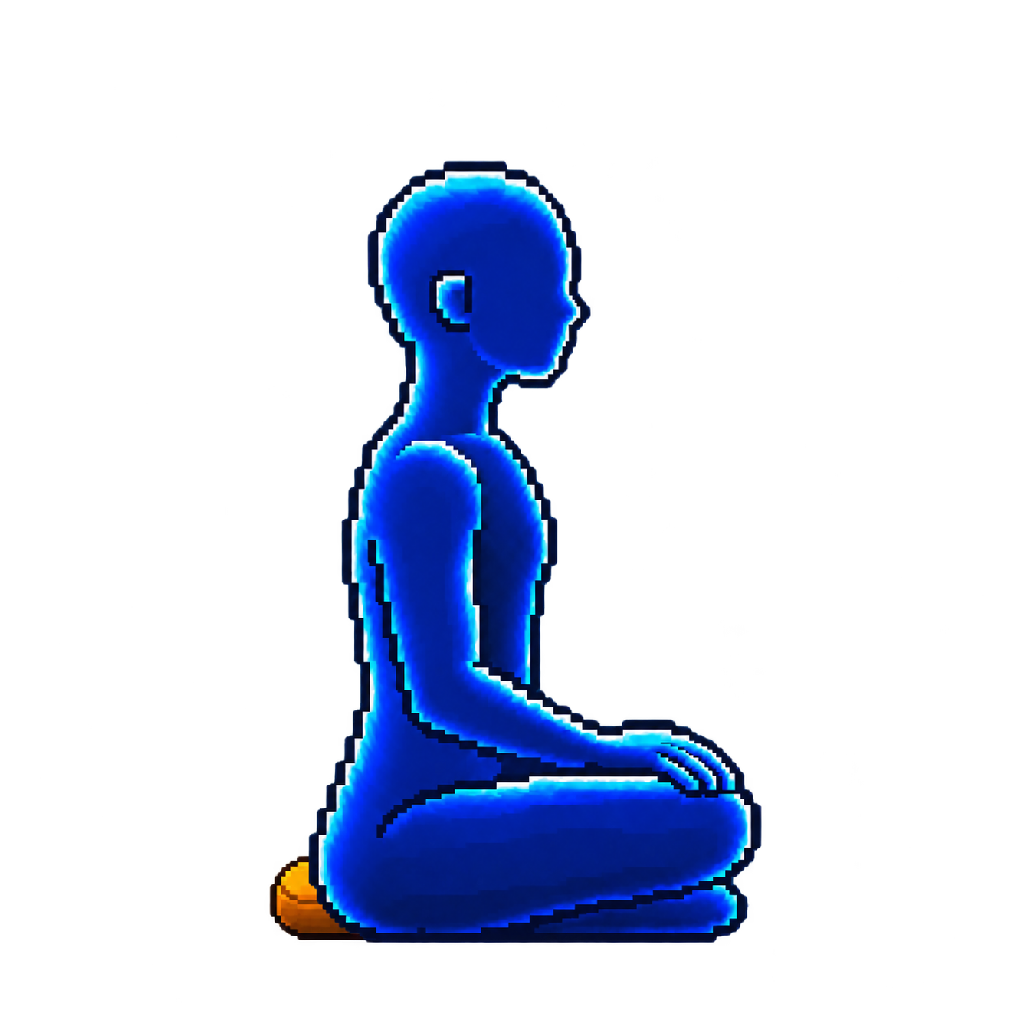
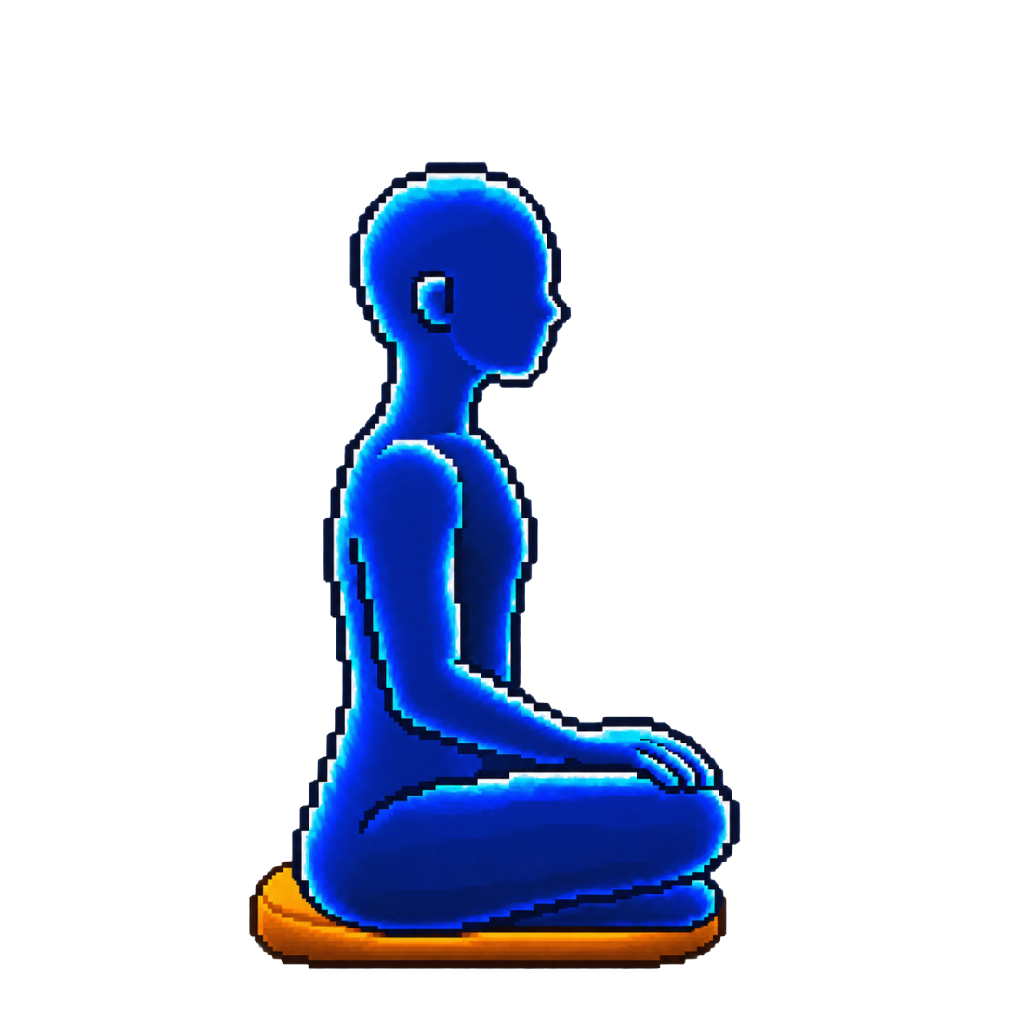
Register the new Lift the hips figure to the side pose so the cushion does not shift the body.

Changed region(s): [[0.2188, 0.1562, 0.75, 0.9688]]

diff --git a/public/index.html b/public/index.html
@@ -353,9 +353,9 @@ img[alt="luminous body"]{mix-blend-mode:normal!important;animation:none!importan
 /* One anatomical registration for every approved seated male asset: the
    palms-down crown, centre line and floor contact are the shared anchors. */
 html[data-wave-avatar="man"] .seat-side{transform:translate(-.05%,-.108%) scale(1.00256)}
-/* The cushion extends farther left than the figure itself. Align the visible
-   head/spine/torso landmarks, which are drawn 19px right of the side master. */
-html[data-wave-avatar="man"] [data-seat="1"]{transform:translateX(-1.935%);transform-origin:50% 50%}
+/* The cushion pose is registered to the side master, so it shares that
+   placement. The hips rise onto the cushion without shifting the figure. */
+html[data-wave-avatar="man"] [data-seat="1"]{transform:translate(-.05%,-.108%) scale(1.00256);transform-origin:50% 50%}
 /* The approved shoulder and spine stills share the same 1254px registration,
    so changing posture never moves the seated baseline. */
 html[data-wave-avatar="man"] .spine-upright-sequence{transform:none}
@@ -735,7 +735,7 @@ html[data-wave-avatar="man"] .head-position-sequence{transform:translate(-1.054%
       <!-- seated posture frames (crossfade) -->
       <div data-layer="seated" style="position:absolute; inset:0; opacity:0; transition:opacity 1s ease; mix-blend-mode:screen;">
         <div data-seat="0" class="seat-views" style="position:absolute;inset:0;opacity:0"><img class="seat-front" src="assets/female-cloud-0.svg" alt="Front view of seated posture"/><img class="seat-side" src="assets/female-pose-1.svg?v=2" alt="Side view of seated posture"/></div>
-        <img data-seat="1" src="assets/female-pose-0.svg?v=2" alt="use a cushion" style="position:absolute; inset:0; width:100%; height:100%; object-fit:contain; padding:4% 6% 6%; opacity:0; transition:opacity .9s ease; animation:seatedFloat 8s ease-in-out infinite;">
+        <img data-seat="1" src="assets/female-pose-0.svg?v=3" alt="use a cushion" style="position:absolute; inset:0; width:100%; height:100%; object-fit:contain; padding:4% 6% 6%; opacity:0; transition:opacity .9s ease; animation:seatedFloat 8s ease-in-out infinite;">
         <div data-seat="2" class="shoulder-release-sequence" role="img" aria-label="Shoulders gently dropping down and away from the ears, with arrows moving downward above each shoulder">
           <img data-shoulder-release-frame data-avatar-slot="female-shoulders-relaxed-0.png" src="assets/avatars/woman.png" alt="">
           <img class="seat-cue-arrow shoulder-cue-arrow shoulder-cue-arrow-left" src="assets/animations/seat-cue-arrows-v1/arrow-down.png" alt="" aria-hidden="true">

diff --git a/tests/avatar-assets.test.js b/tests/avatar-assets.test.js
@@ -144,7 +144,7 @@ test('finding your seat alternates front then side master, side registered for l
   assert.ok(!html.includes('animation:front-view'));
   assert.ok(!html.includes('animation:side-view'));
   assert.match(html, /html\[data-wave-avatar="man"\] \.seat-side\{transform:translate\(-\.05%,-\.108%\) scale\(1\.00256\)\}/);
-  assert.match(html, /html\[data-wave-avatar="man"\] \[data-seat="1"\]\{transform:translateX\(-1\.935%\)/);
+  assert.match(html, /html\[data-wave-avatar="man"\] \[data-seat="1"\]\{transform:translate\(-\.05%,-\.108%\) scale\(1\.00256\)/);
 });
 
 test('the shoulder instruction replaces one full frame at a time without stacking outlines', () => {
